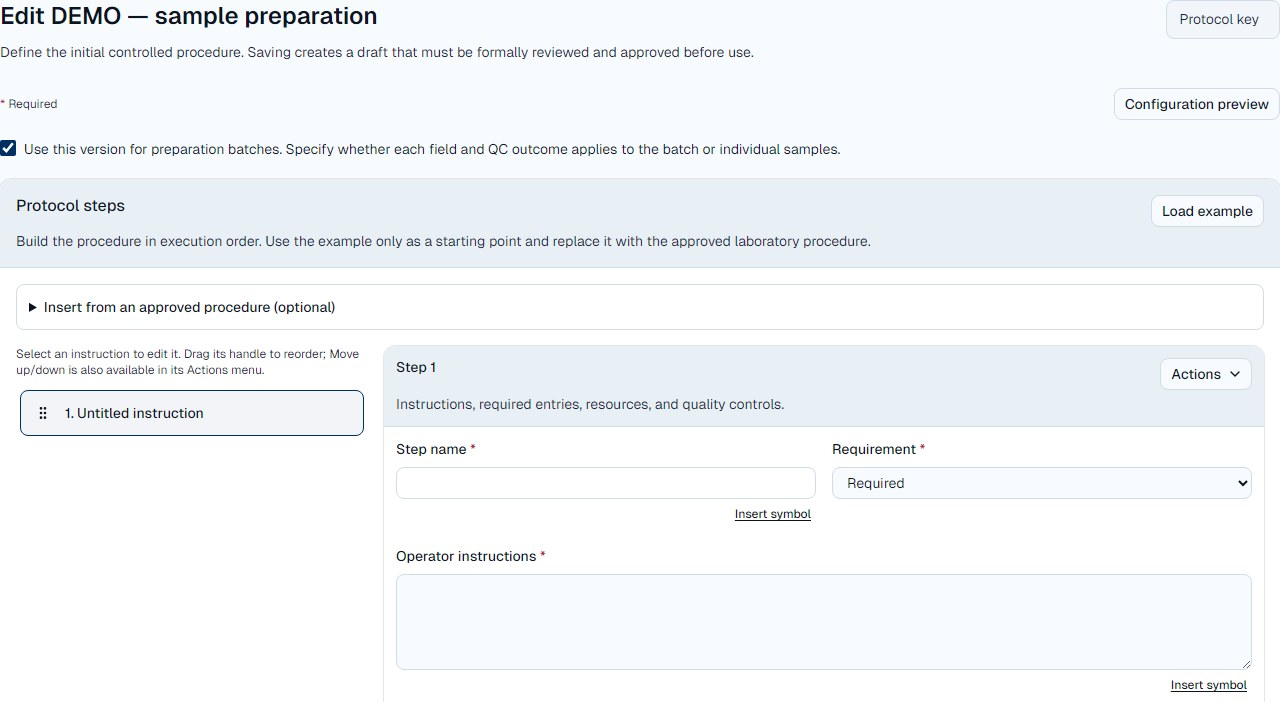
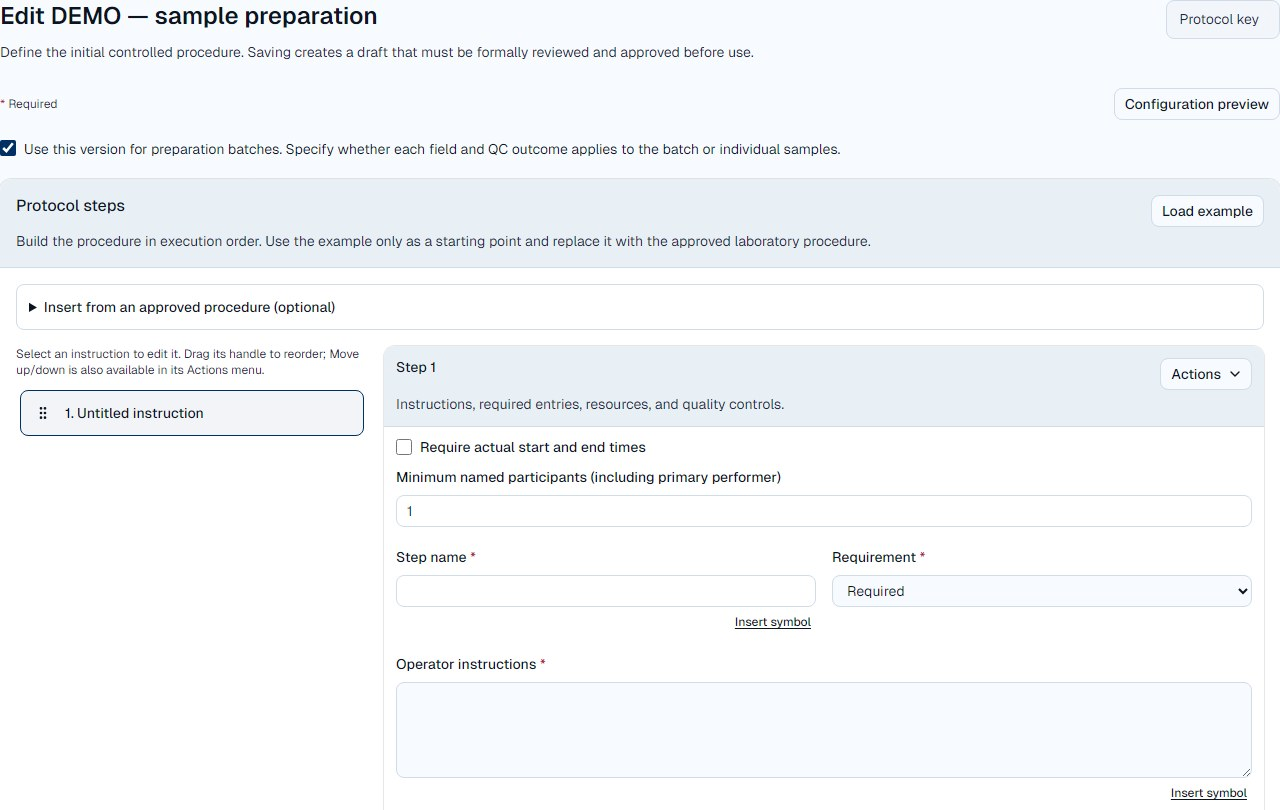
Refresh reviewed guide captures for sample tracking

diff --git a/docs/plans/UI-CONSISTENCY-ADOPTION-AND-ILLUSTRATIONS-PLAN.md b/docs/plans/UI-CONSISTENCY-ADOPTION-AND-ILLUSTRATIONS-PLAN.md
@@ -142,3 +142,39 @@ holds, the orphan fence and S3 recovery deferral remain. The
 [preserving release plan](PORTAL-UI-ADOPTION-HOSTED-TEST-RELEASE-20261022-PLAN.md)
 and [release receipt](../operations/portal-ui-adoption-test-release-20261022.md)
 record exact identities and acceptance limits.
+
+## Sample-tracking capture freshness repair — October 24, 2026
+
+The Owner requested repair and verification of the documentation-capture CI
+failure on sample-tracking source `6c2dd3dd`. Run `40147398564` passed
+`visual-baselines` and `workflow-behavior`; `ui-quality` stopped because 14
+feature/catalog source fingerprints had changed since the guide images were
+reviewed. Keep the freshness guard and its review requirement intact.
+
+Regenerate all 43 registered illustrations from the independent gallery using
+fictional records, inspect the images and their written callouts, update reviewed
+guide dates and regenerate the paired help corpus. The protocol-editor callout
+also identifies the current per-instruction timing and named-participant controls;
+the reviewed scientific procedure determines their settings. Record deliberate
+review only after checking the final captures. Existing image identities,
+audience/locale paths, annotations and visual-reference tolerances stay governed
+by their existing registries.
+
+Verify capture freshness, guide/corpus consistency, coverage registration,
+capture-guard regressions and the nine illustrated guides across the four
+desktop/phone and light/dark browser projects. Publish only the documentation
+repair on the existing sample-tracking branch for the required CI checks. This
+follow-up does not authorize hosted migrations, deployment, DPS activity or
+changes to the unrelated billing/release-preparation work already in the tree.
+
+Local verification passes: 43 deliberately reviewed images, 169 callouts and 346
+current source fingerprints; all four capture-guard regressions; guide/corpus
+and coverage consistency; and all 36 illustrated-guide browser cases across
+desktop/phone and light/dark, with no failures, skips or retries. The regenerated
+62-guide API/UI corpus is `a09e0c7aefa9`. Only the protocol-editor JPEG changes
+from the prior image set; the other 42 final captures retain their original
+bytes. Its crop and callout coordinates include the new controls.
+
+Required GitHub checks rerun on the published follow-up commit. Their exact-source
+results are attached to that commit in GitHub; local checks do not replace them.
+No hosted migration or deployment is performed by this repair.

diff --git a/frontend/public/docs/phaeno/screenshots/README.md b/frontend/public/docs/phaeno/screenshots/README.md
@@ -1,6 +1,6 @@
 # Phaeno how-to screenshots
 
-These are actual local application captures refreshed October 22, 2026. Stable
+These are actual local application captures refreshed October 24, 2026. Stable
 filenames retain their original asset identities; current provenance and review
 are in `frontend/ui-gallery/documentation-captures.json`.
 
